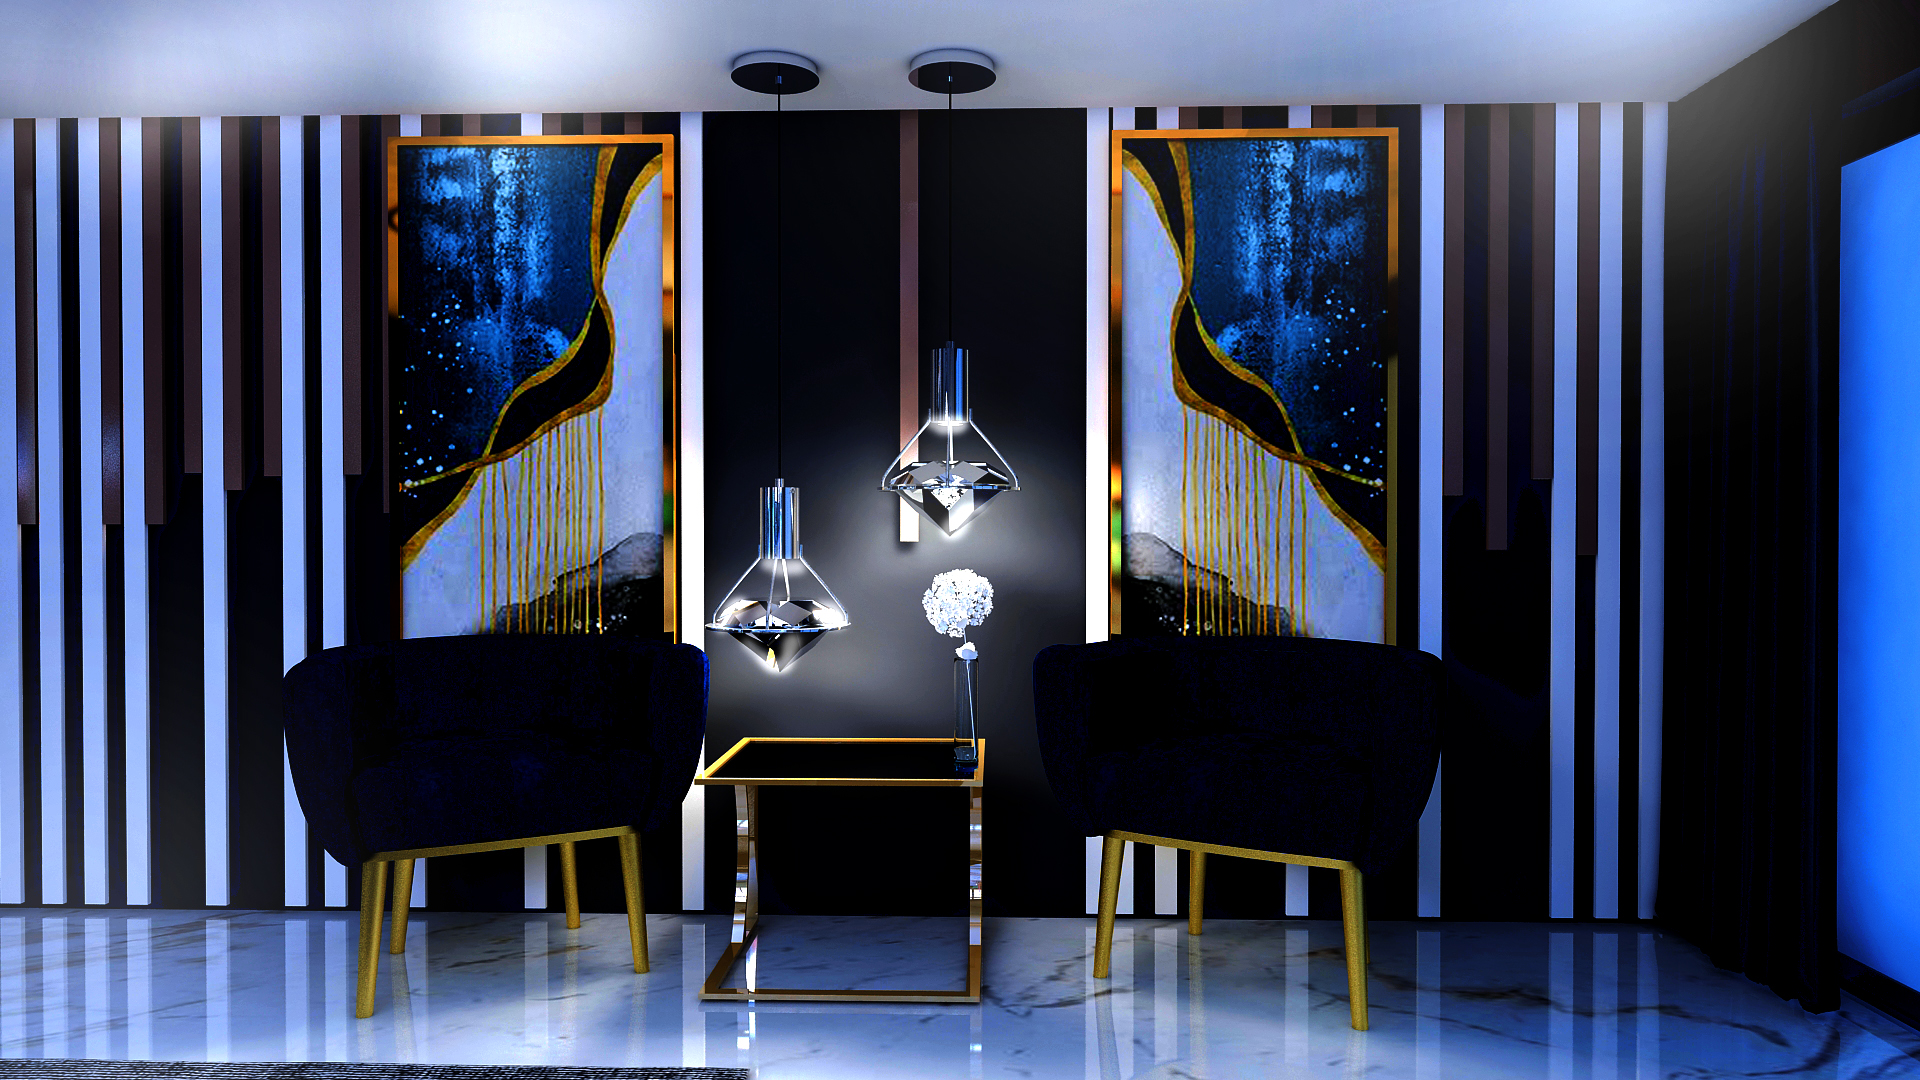
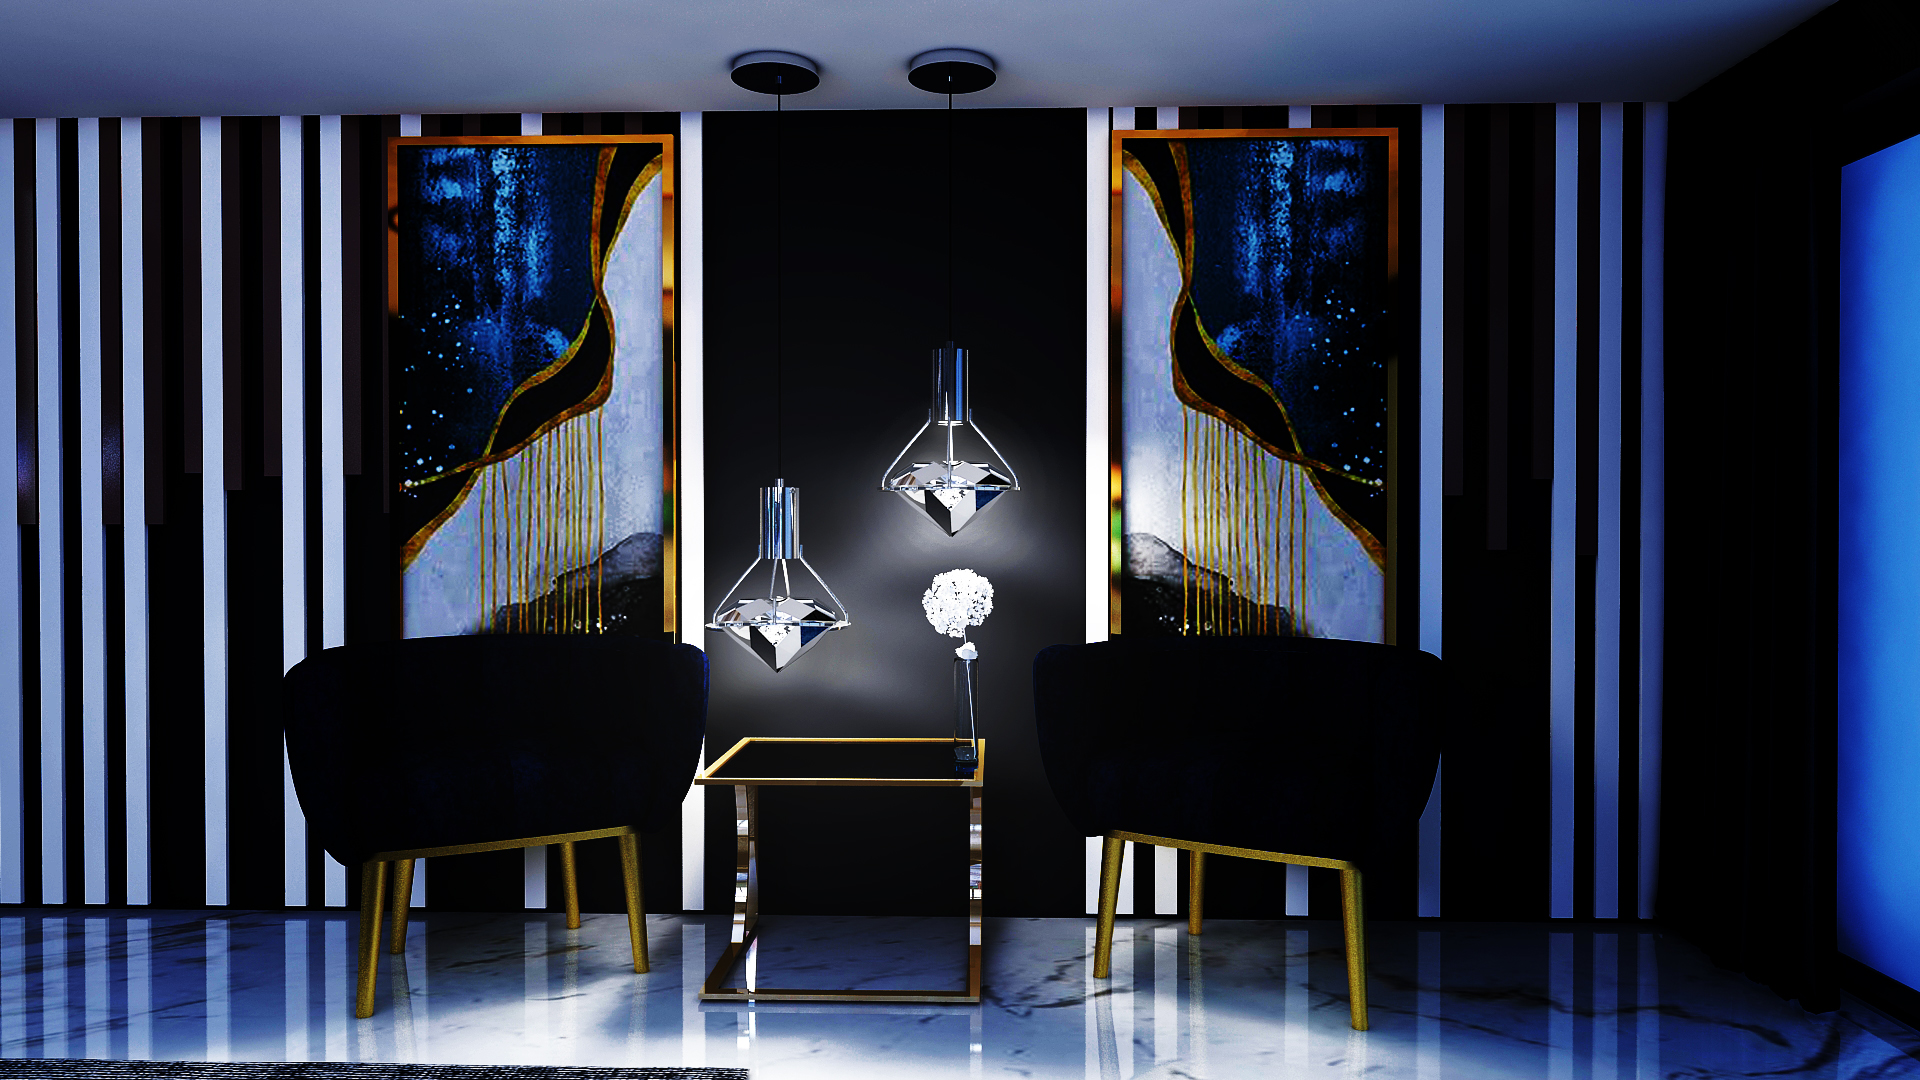
updated rgb carousel

diff --git a/src/app/components/LightingCarousel.jsx b/src/app/components/LightingCarousel.jsx
@@ -73,7 +73,7 @@ const LightingCarousel = () => {
 
     // 1⃣ Handle Off Light (when RGB values are very low)
     if (maxRGBValue < minRGBThreshold) {
-      globalThis.offLightOpacity = 1 - maxRGBValue / minRGBThreshold
+      globalThis.offLightOpacity = 1 - (maxRGBValue / minRGBThreshold) - 0.3;
       setOffLight(true);
     } else {
       globalThis.offLightOpacity = 0;
@@ -805,18 +805,16 @@ const LightingCarousel = () => {
               <div className="relative w-full h-full overflow-hidden">
                 {/* Base Room Image */}
                 <div className="absolute inset-0 bg-cover bg-center" />
-                {offLight && (
-                  <>
+               
                     <div
                       className="absolute inset-0 bg-contain bg-no-repeat bg-center mix-blend-screen"
                       style={{
                         backgroundImage: "url('/images/RGB/off.jpg')",
-                        opacity: offLightOpacity,
+                        opacity: offLight ? offLightOpacity : 0,
                         // transition: "opacity 0.3s ease-in-out",
                       }}
                     />
-                  </>
-                )}
+              
                 {/* Red Light Layer */}
                 <div
                   className="absolute inset-0 bg-contain bg-no-repeat bg-center mix-blend-screen"
@@ -846,16 +844,16 @@ const LightingCarousel = () => {
                     // transition: "opacity 0.3s ease-in-out",
                   }}
                 />
-                {onLight && (
+            
                   <div
                     className="absolute inset-0 bg-contain bg-no-repeat bg-center mix-blend-screen"
                     style={{
                       backgroundImage: "url('/images/RGB/white.jpg')",
-                      opacity: whiteOpacity,
+                      opacity: onLight ? whiteOpacity : 0,
                       // transition: "opacity 0.3s ease-in-out",
                     }}
                   />
-                )}
+              
               </div>
             </div>
           </div>
